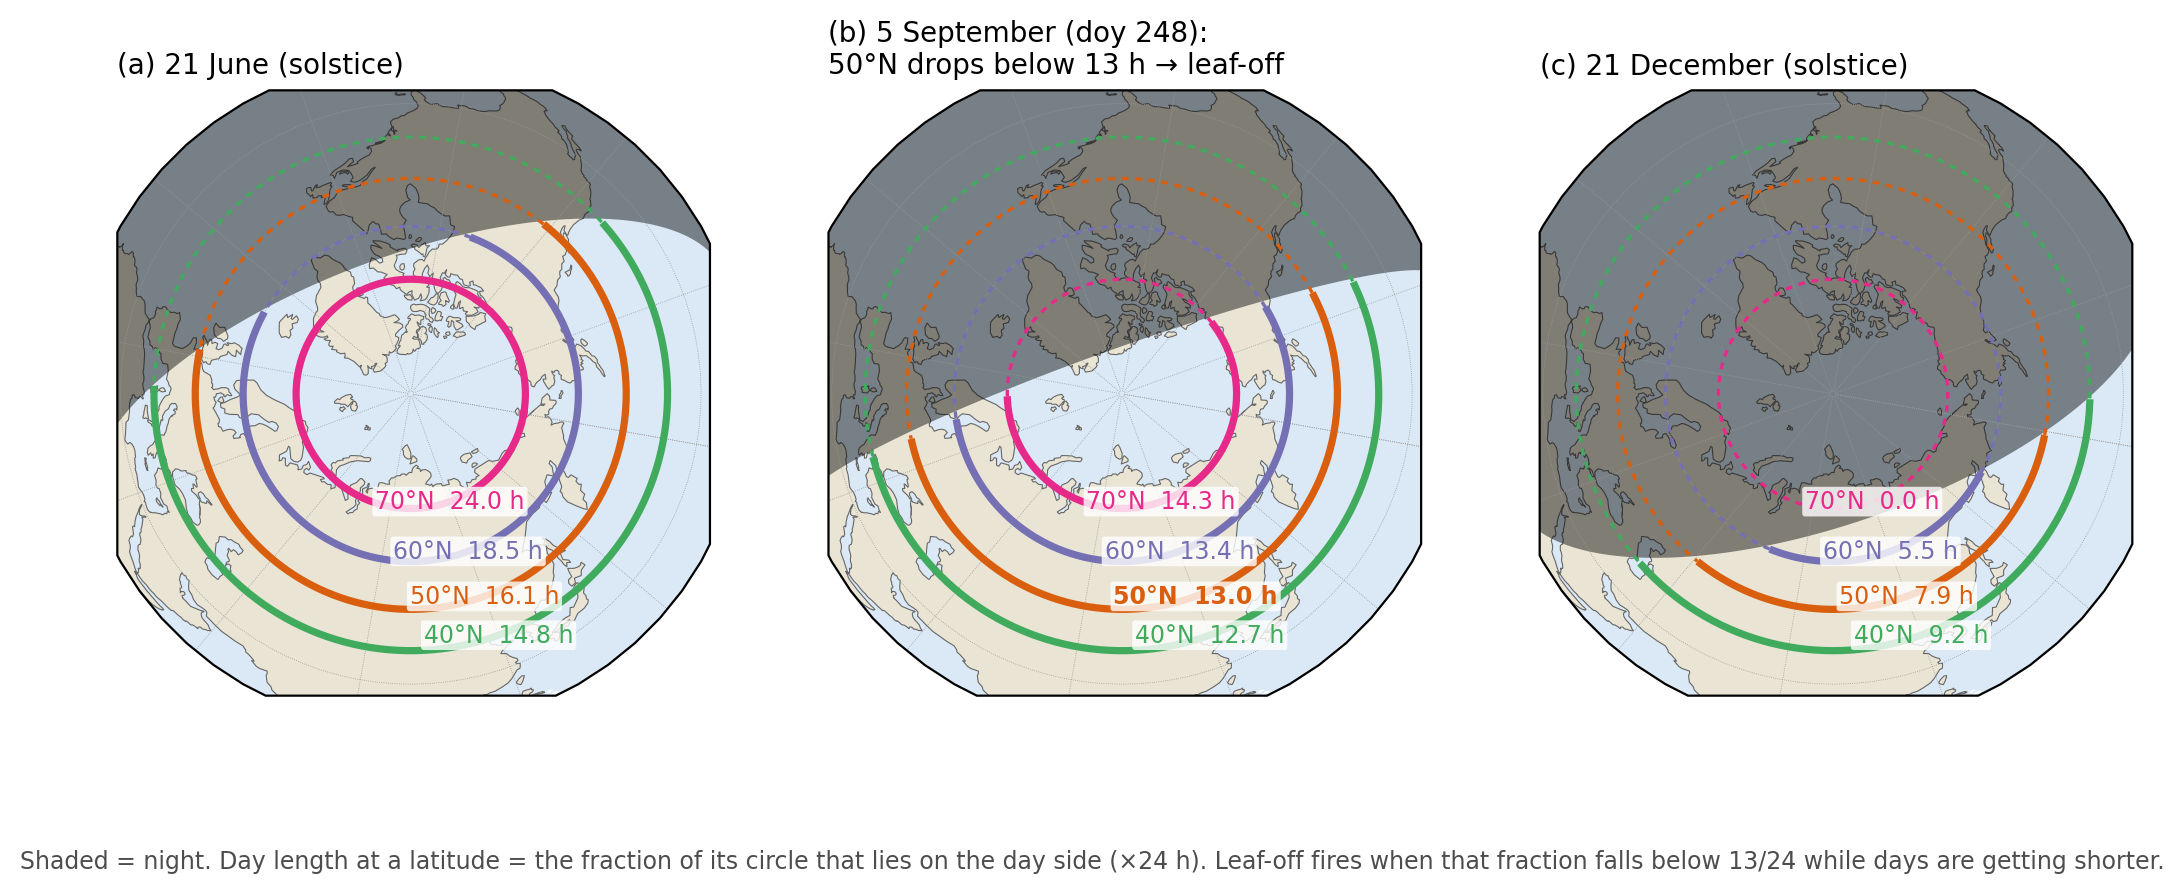
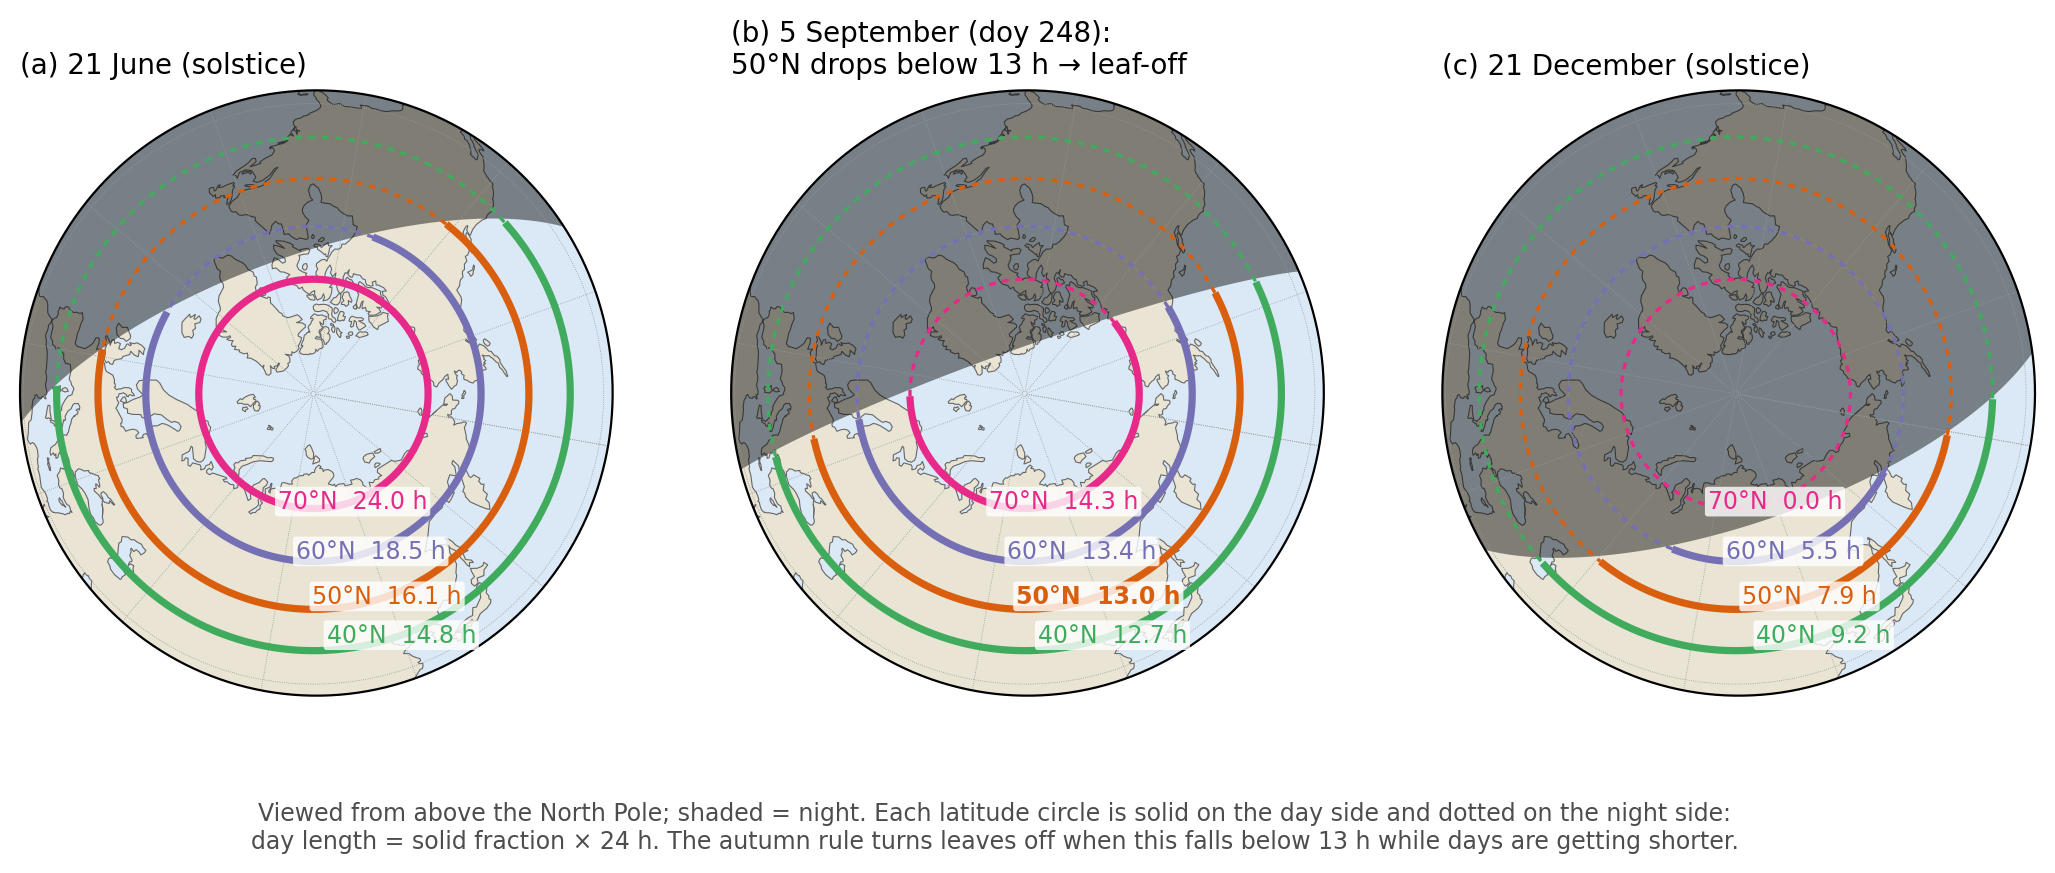
SI Fig. S1: round-frame globe view of day length with updated caption; README figure table

Changed region(s): [[0.0, 0.0, 0.654, 0.8041], [0.6852, 0.0619, 0.9966, 0.8041], [0.0, 0.9278, 0.9966, 0.9897]]

diff --git a/paper/2026_LM4p_phenology/scripts/s1b_daylength_globe.py b/paper/2026_LM4p_phenology/scripts/s1b_daylength_globe.py
@@ -12,6 +12,7 @@ import numpy as np
 import matplotlib
 matplotlib.use("Agg")
 import matplotlib.pyplot as plt
+import matplotlib.path as mpath
 import cartopy.crs as ccrs
 import cartopy.feature as cfeature
 from cartopy.feature.nightshade import Nightshade
@@ -33,6 +34,8 @@ fig, axs = plt.subplots(1, 3, figsize=(13, 5.0), subplot_kw={"projection": proj}
 for ax, (when, title) in zip(axs, DATES):
     doy = when.timetuple().tm_yday
     ax.set_extent([-180, 180, 25, 90], crs=ccrs.PlateCarree())
+    th = np.linspace(0, 2 * np.pi, 200)                              # round frame instead of the clipped octagon
+    ax.set_boundary(mpath.Path(np.c_[np.sin(th), np.cos(th)] * 0.5 + 0.5), transform=ax.transAxes)
     ax.add_feature(cfeature.OCEAN, facecolor="#dbe9f6"); ax.add_feature(cfeature.LAND, facecolor="#e9e4d4")
     ax.coastlines(lw=0.4, color="0.4")
     ax.add_feature(Nightshade(when, alpha=0.45))
@@ -50,7 +53,8 @@ for ax, (when, title) in zip(axs, DATES):
                 bbox=dict(boxstyle="round,pad=0.12", fc="white", ec="none", alpha=0.8))
     ax.plot(lon, np.zeros_like(lon), color="0.3", lw=0.8, transform=ccrs.PlateCarree())
     ax.set_title(title, fontsize=10, loc="left")
-fig.text(0.5, 0.02, "Shaded = night. Day length at a latitude = the fraction of its circle that lies on the day side (×24 h). "
-         "Leaf-off fires when that fraction falls below 13/24 while days are getting shorter.", ha="center", fontsize=8.5, color="0.3")
+fig.text(0.5, 0.04, "Viewed from above the North Pole; shaded = night. Each latitude circle is solid on the day side and dotted on the night side:\n"
+         "day length = solid fraction \u00d7 24 h. The autumn rule turns leaves off when this falls below 13 h while days are getting shorter.",
+         ha="center", fontsize=8.5, color="0.3")
 fig.savefig("../figures/s1b_daylength_globe.png", dpi=200, bbox_inches="tight")
 print("ok")

diff --git a/paper/2026_LM4p_phenology/README.md b/paper/2026_LM4p_phenology/README.md
@@ -26,6 +26,8 @@ monthly LAI interpolated to days (p3 method).
 | 1 | scripts/f1_ctrl_bias_regions.py | data/f1_sos_eos_bias.txt | (a) GLASS MJJAS LAI, (b) LM4.1 - obs, (c) boreal seasonal cycle vs 3 obs, (d,e) SOS/EOS bias by latitude band (monthly, 50 %) |
 | 2 | scripts/f2_rules_schematic.py | - | (a) CTRL vs modified rules, (b) one-cell 2010 timeline (dayl_d) - draft, winter hold pending daylhold5_d |
 | 3 | scripts/f3_rule_timing_maps.py | data/f3_rule_timing_bands.txt | rule timing reconstructed from daily T: spring smoothing delay, binding gate, photoperiod vs cold rule, cold rule vs obs EOS |
+| 2a | scripts/f2a_rule_box.py | - | Weng et al. 2015 rule box with the added winter-hold and photoperiod terms in red (spring change not shown) |
+| S1 | scripts/s1_daylength_formula.py, s1b_daylength_globe.py | - | day-length terms of the patch: declination / day-length curves (30-70N, 40S) and north-pole globe view on 21 Jun, 5 Sep (50N reaches 13 h), 21 Dec |
 | SI | scripts/o1_obs_native_to_1deg.py, dlog.py, o2_regional_fit_native.py | data/obs_native/, data/o2_regional_fit_native.txt | native-sampling obs (8-day / half-monthly) and double-logistic dates: sampling moves dates <= 3 d |
 
 Inputs are read from ../poster/2026_LM4p_LAI/data and /Volumes/data02/LM4P; nothing large is copied here.
